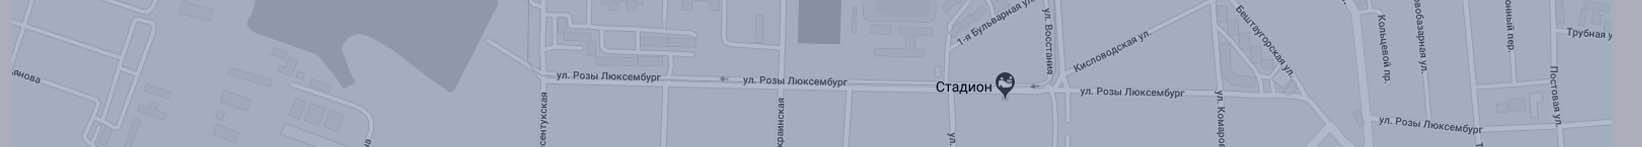
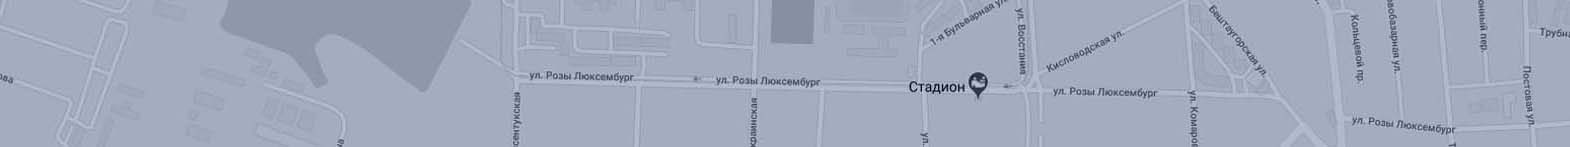
fixed a bug with the map image display

diff --git a/css/style.css b/css/style.css
@@ -1078,7 +1078,7 @@ body {
 	width: 100%;
 	height: 145px;
 	background: url('../images/map.jpg');
-	background-size: 106% auto;
+	background-size: cover;
 	background-position: center center;
 	background-repeat: no-repeat;
 }
